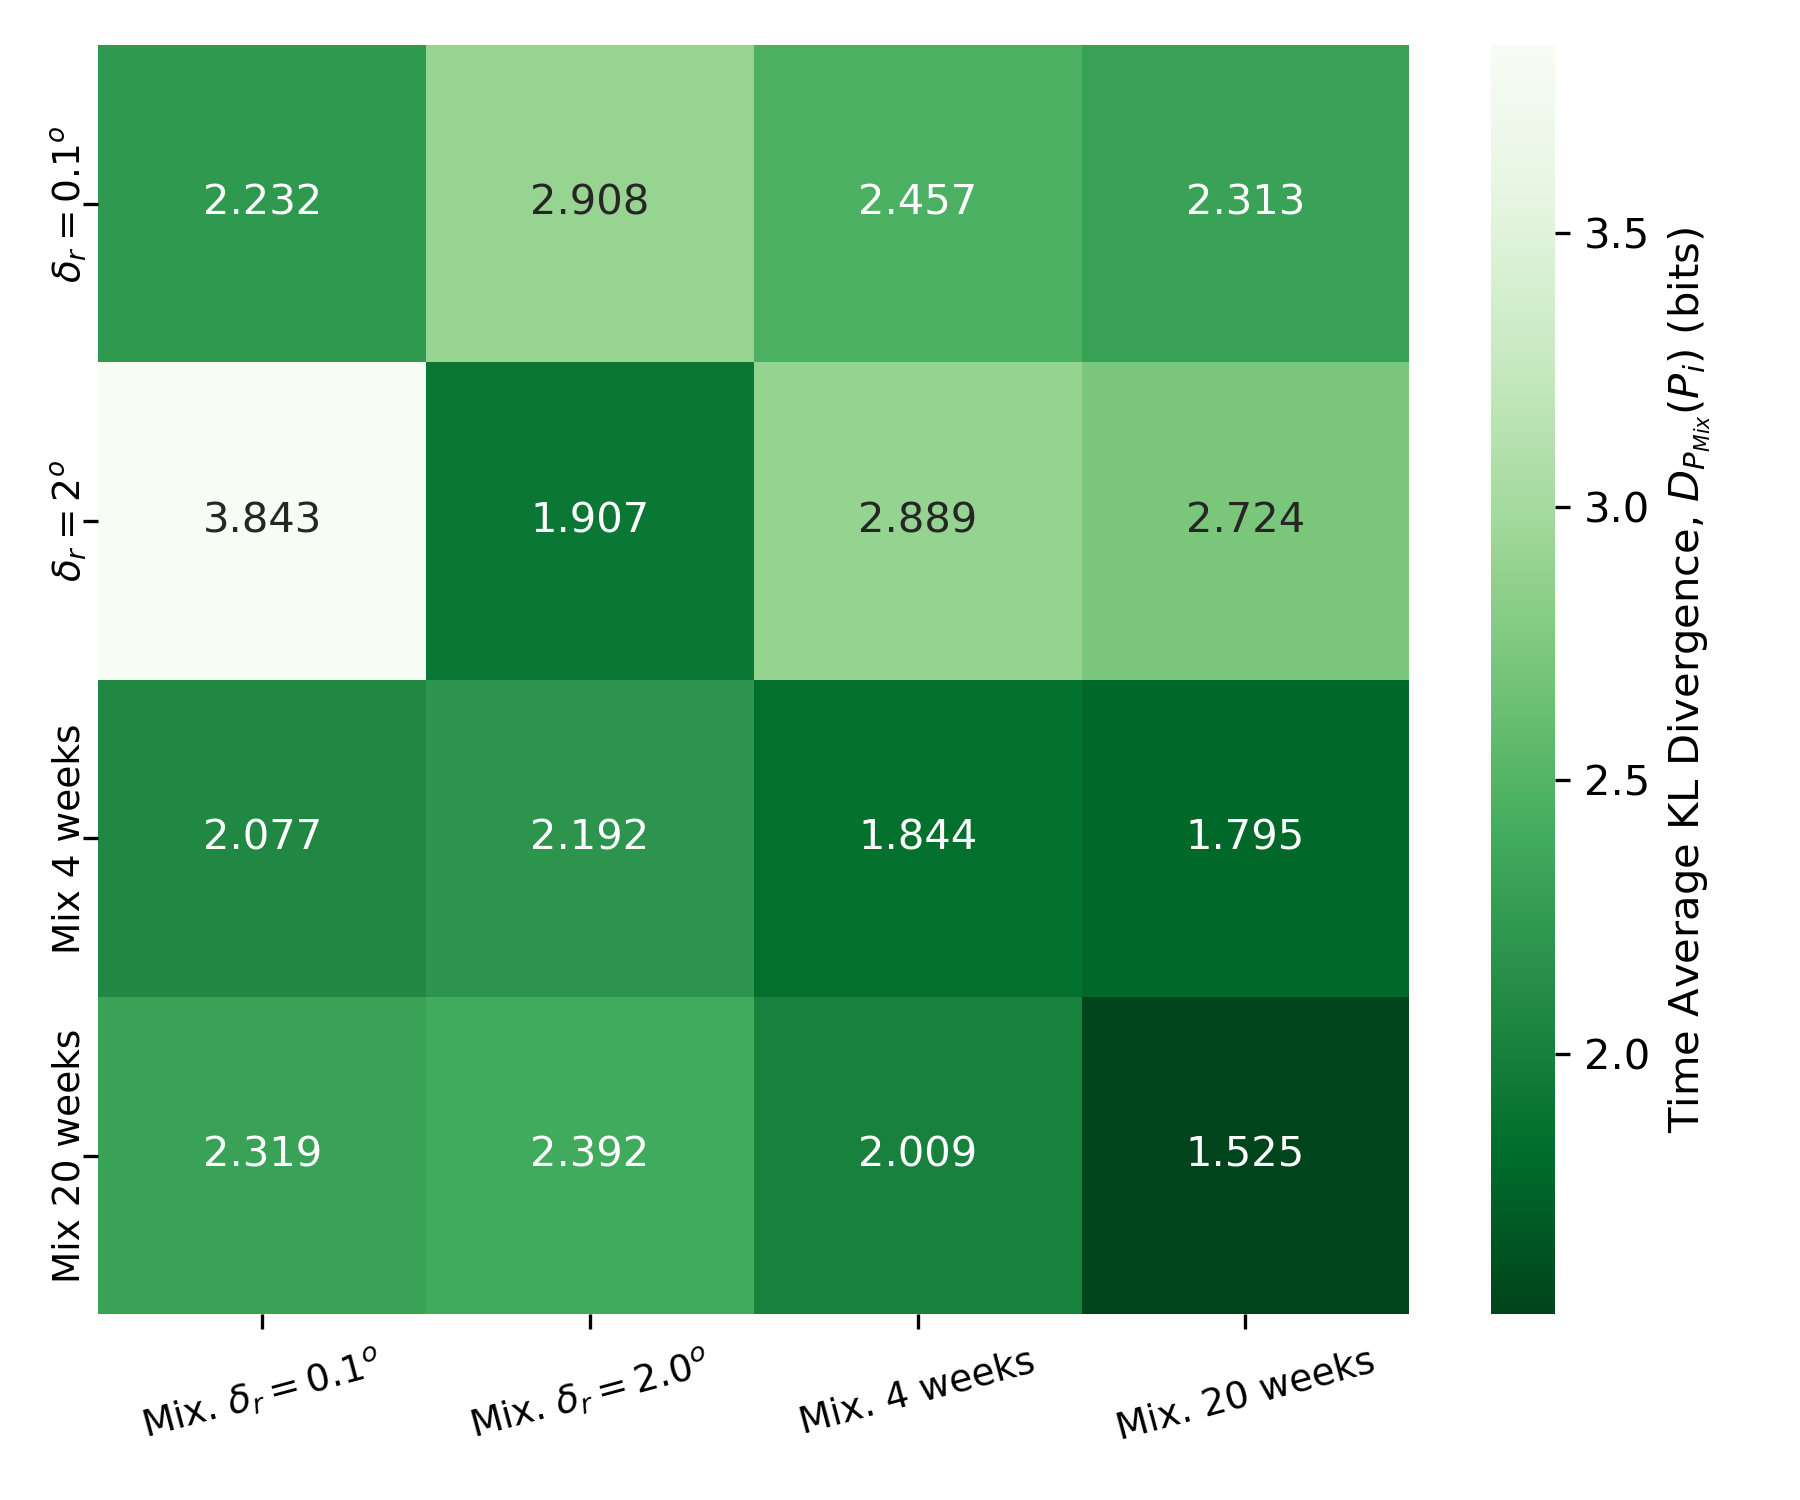
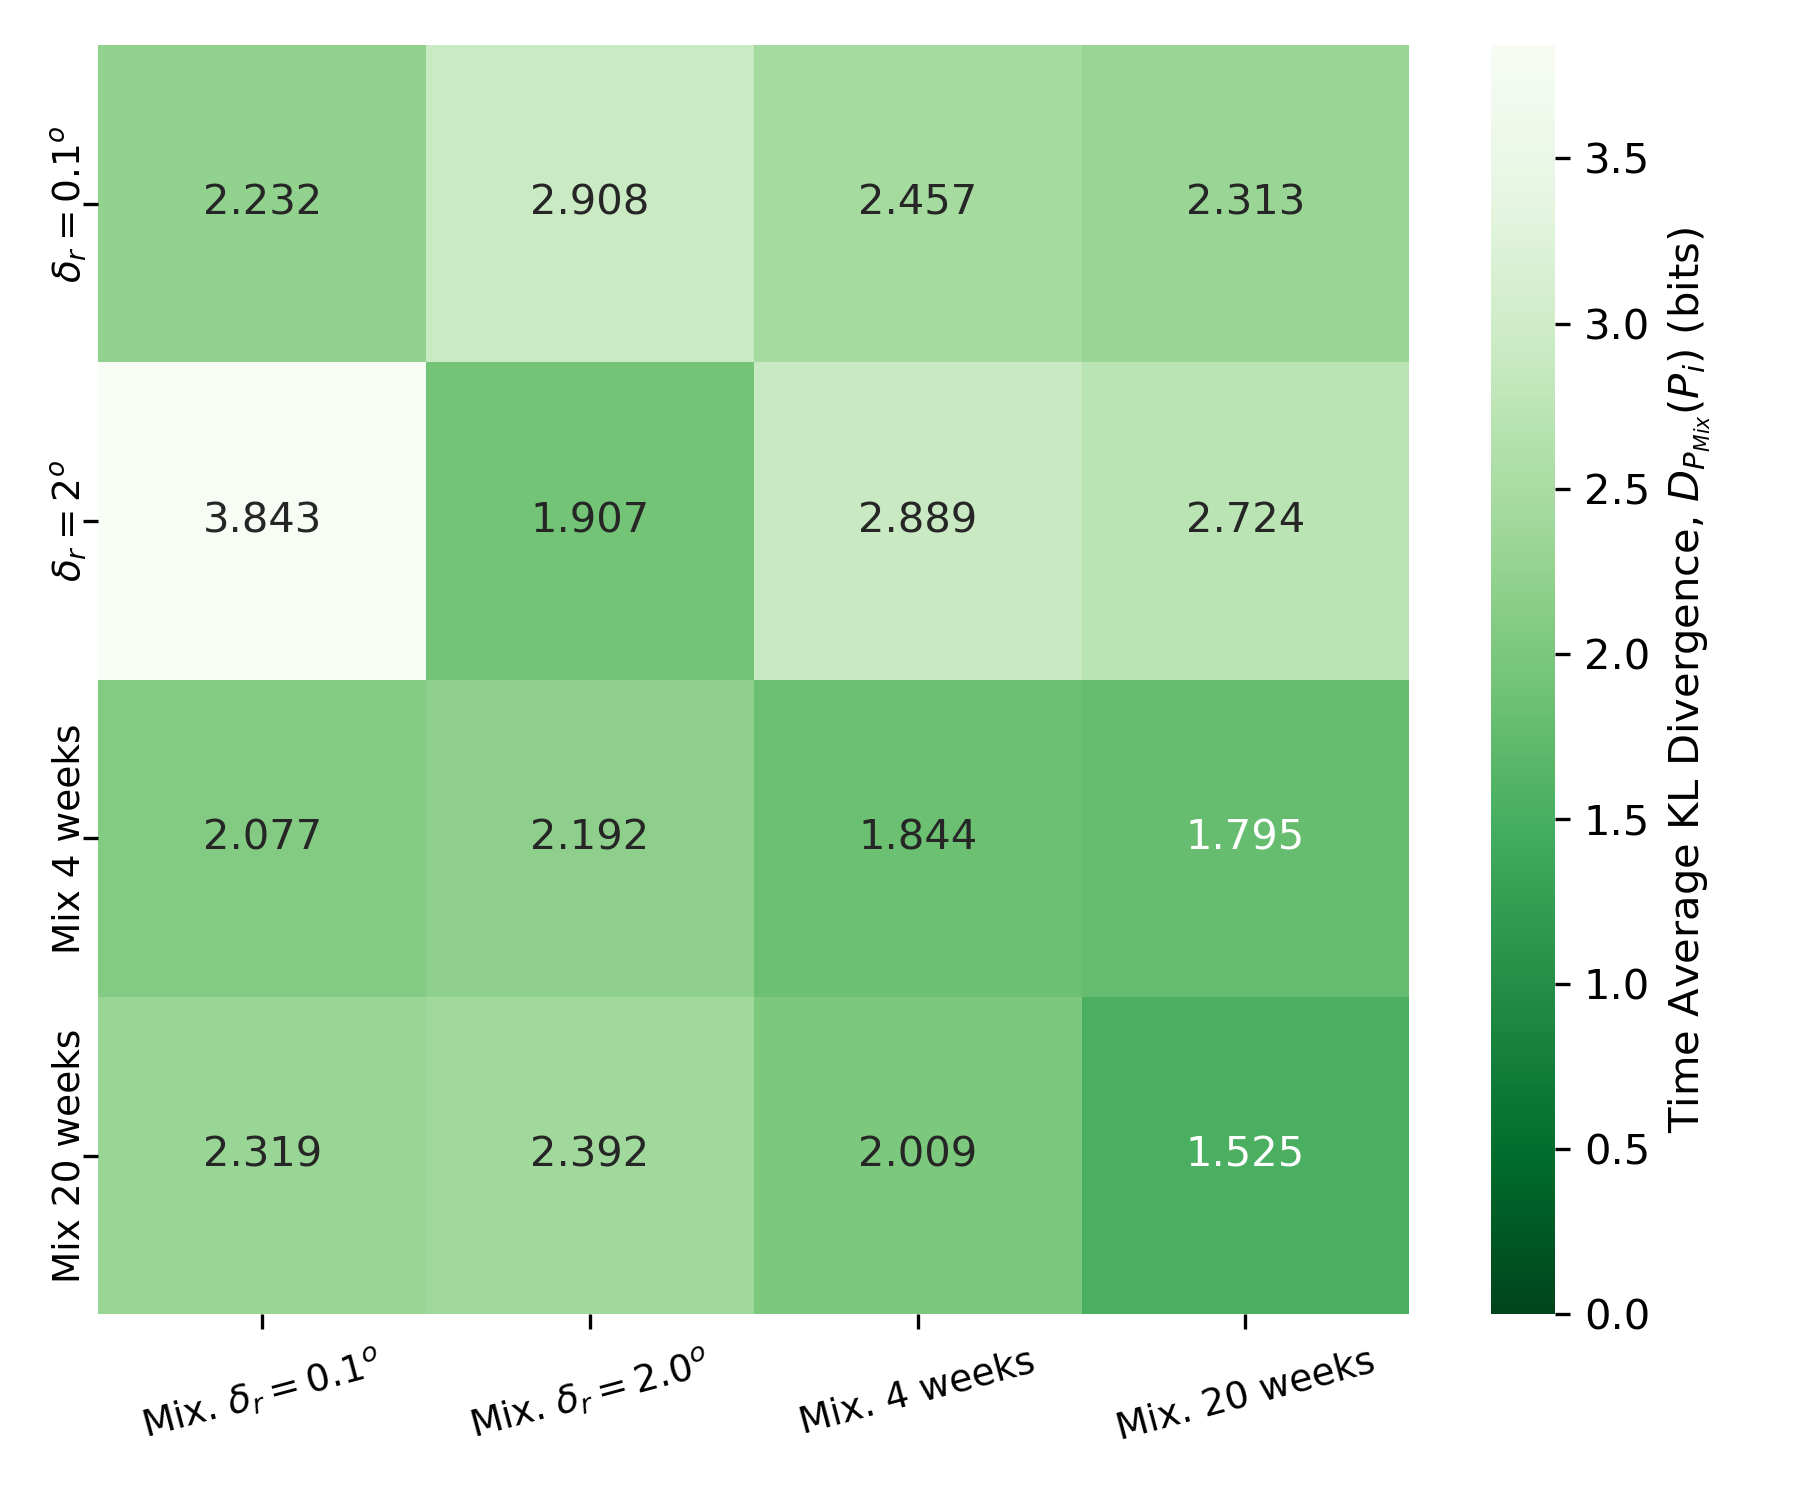
Modified KLD avg time color scale min =0

diff --git a/plot_scripts/Cross_entropy_in_time.py b/plot_scripts/Cross_entropy_in_time.py
@@ -178,7 +178,7 @@ fig, ax = plt.subplots(figsize=(6, 5))
 
 cmmap = "Greens_r"
 
-sns.heatmap(DF, annot=True, fmt=".3f", cmap=cmmap, ax=ax, cbar=True)
+sns.heatmap(DF, annot=True, fmt=".3f", cmap=cmmap, ax=ax, cbar=True, vmin=0)
 
 # Rotate y tick labels 90 degrees
 ax.set_yticklabels(ax.get_yticklabels(), rotation=90, ha='center', fontsize=9)
